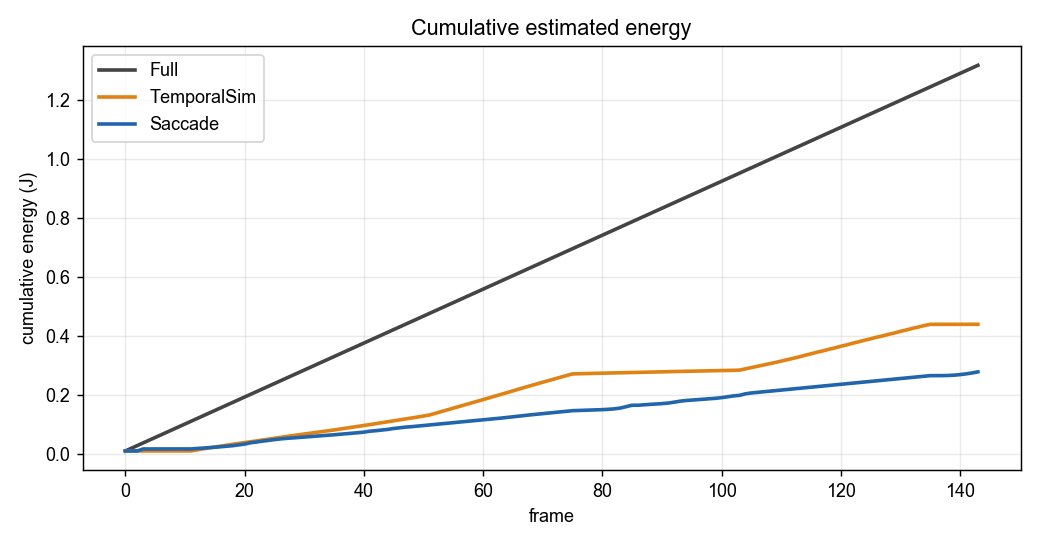
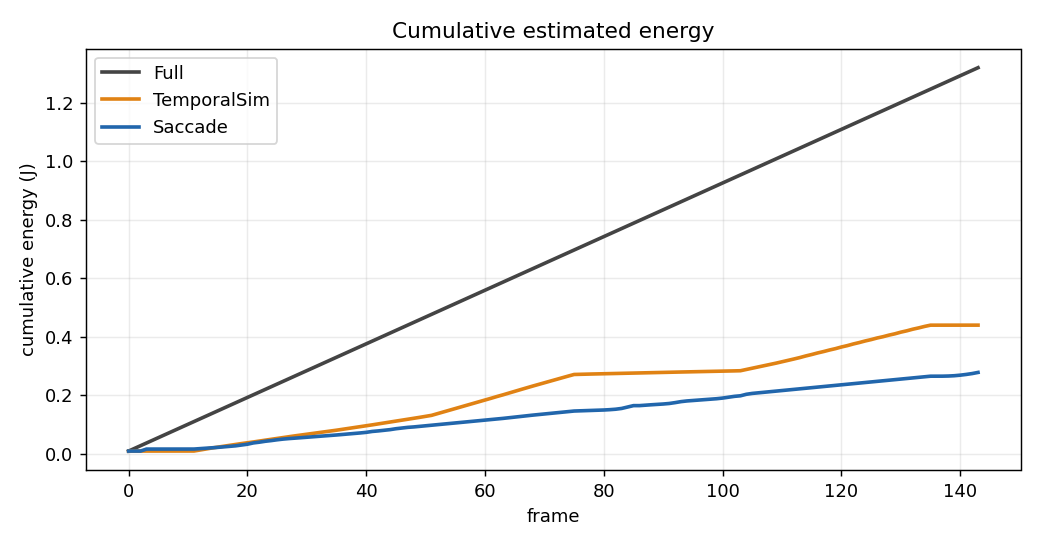
Translate all GitHub-facing text to English
- Rewrite README.md entirely in English (claims, architecture, benchmark
  tables, DINOv2 results, caveats); docstring claim tags keep their
  Japanese labels, glossed once in the README
- Regenerate the centerpiece figure with an English-only title and drop
  the now-unneeded CJK font registration from benchmarks/run.py
- Repo description switched to English

diff --git a/benchmarks/run.py b/benchmarks/run.py
@@ -30,25 +30,6 @@ sys.path.insert(0, os.path.dirname(os.path.dirname(os.path.abspath(__file__))))
 import matplotlib
 matplotlib.use("Agg")
 import matplotlib.pyplot as plt  # noqa: E402
-from matplotlib import font_manager  # noqa: E402
-
-
-def _setup_cjk_font():
-    """Register a CJK-capable font so Japanese figure titles render (not tofu boxes)."""
-    for p in ["/Library/Fonts/Arial Unicode.ttf",
-              "/System/Library/Fonts/Supplemental/Arial Unicode.ttf",
-              "/System/Library/Fonts/Hiragino Sans GB.ttc",
-              "/System/Library/Fonts/AppleSDGothicNeo.ttc"]:
-        if os.path.exists(p):
-            try:
-                font_manager.fontManager.addfont(p)
-                name = font_manager.FontProperties(fname=p).get_name()
-                plt.rcParams["font.family"] = [name, "DejaVu Sans"]
-                plt.rcParams["axes.unicode_minus"] = False
-                return name
-            except Exception:
-                continue
-    return None
 
 from saccade import (EngineConfig, SaccadeEngine, SyntheticBackbone, make_backbone,  # noqa: E402
                      summarize, synthetic_walking_stream, frames_from_video,
@@ -188,8 +169,7 @@ def fig_why_temporalsim_fails(frames, labels, img_size, path):
     axs[1, 1].set_title(f"Saccade signal: MOTION-COMPENSATED residual\n→ re-encode {c_enc:.0f}% of patches")
     axs[1, 1].axis("off")
     fig.colorbar(im2, ax=axs[1, :], fraction=0.046, pad=0.04, label="per-patch residual")
-    fig.suptitle("なぜ temporal-similarity は定常運動を間引けないか  /  Why temporal-similarity can't skip steady motion",
-                 fontsize=13)
+    fig.suptitle("Why temporal-similarity can't skip steady ego-motion", fontsize=13)
     fig.savefig(path, dpi=130, bbox_inches="tight"); plt.close(fig)
     return b_enc, c_enc
 
@@ -255,8 +235,6 @@ def main():
     args = ap.parse_args()
 
     os.makedirs(FIGDIR, exist_ok=True)
-    font = _setup_cjk_font()
-    print(f"[font] CJK font: {font or 'not found (Japanese titles may not render)'}")
     print(f"[stream] source={args.source}")
     frames, labels = build_stream(args.source, args.img_size, args.frames)
     print(f"[stream] {len(frames)} frames")

diff --git a/README.md b/README.md
@@ -5,196 +5,192 @@
 [![python](https://img.shields.io/badge/python-3.10%2B-blue.svg)](pyproject.toml)
 [![release](https://img.shields.io/github/v/release/NagaYu/saccade)](https://github.com/NagaYu/saccade/releases)
 
-**予測誤差ゲート＋エネルギー予算制御による、常時オンのエッジVLM.**
+**An always-on edge VLM driven by prediction-error gating and an energy budget.**
 *Predict what the next frame will look like; spend compute only where you were wrong; never exceed your energy budget.*
 
-Saccade は、頭が動いても世界の見えは滑らかに予測できる — という生物の視覚（サッカード間の予測）にならい、
-**「予測できたパッチは再エンコードしない」** ことでエッジ常時稼働VLMの消費電力を削ります。
-鍵は *自己運動 (ego-motion) の補償*：カメラが動くと画素はほぼ全て変化するが、**動きを差し引けば静止世界の残差はほぼゼロ**。
-既存の「フレーム類似度で間引く」手法が定常運動を全く間引けないのに対し、Saccade は大きく間引けます。
+Saccade borrows a trick from biological vision — the world stays smoothly predictable while your head moves — and cuts the power draw of an always-on edge VLM by **never re-encoding a patch it could predict**. The key is *ego-motion compensation*: when the camera moves, almost every pixel changes, but **subtract the motion and the residual of a static world is nearly zero**. Existing "frame-similarity" skipping cannot skip steady motion at all; Saccade skips most of it.
 
 ---
 
-## TL;DR（合成歩行ストリーム, CPU, ViT-S/16 相当）
+## TL;DR (synthetic walking stream, CPU, ViT-S/16-class encoder)
 
-| 手法 | 再エンコード% | 品質 (fidelity vs Full) | 推定エネルギー(J) | 平均電力 | **10kJでの連続稼働** |
+| Method | Patches re-encoded | Fidelity vs Full | Estimated energy (J) | Mean power | **Runtime on 10 kJ** |
 |---|---|---|---|---|---|
-| **(A) Full**（毎フレーム全エンコード） | 100.0 | 1.000 | 1.264 | 91.6 mW | 30.3 h |
-| **(B) TemporalSim**（同位置フレーム差分で間引く） | 33.9 | 0.972 | 0.430 | 31.2 mW | 89.1 h |
-| **(C) Saccade**（予測誤差ゲート＋IMU補償＋予算制御） | **20.6** | **0.971** | **0.262** | **19.0 mW** | **146.4 h** |
+| **(A) Full** (encode everything, every frame) | 100.0% | 1.000 | 1.264 | 91.6 mW | 30.3 h |
+| **(B) TemporalSim** (same-position frame-diff skipping) | 33.9% | 0.972 | 0.430 | 31.2 mW | 89.1 h |
+| **(C) Saccade** (prediction-error gate + IMU compensation + budget control) | **20.6%** | **0.971** | **0.262** | **19.0 mW** | **146.4 h** |
 
-- **省エネ**: Full 比 **4.8×**、TemporalSim 比 **1.65×** 少ない計算で、
-- **品質保持**: 品質は TemporalSim と同等（Full に対する fidelity 0.971 ≈ 0.972）、
-- **予算保証**: 予算制御ON時の予算超過は **0 件**（0.05 W〜0.0001 W の全設定で厳密不変条件を満たす）。
+- **Energy saving**: 4.8× less compute than Full and 1.65× less than TemporalSim,
+- **Quality preservation**: quality on par with TemporalSim (fidelity vs Full: 0.971 ≈ 0.972),
+- **Budget guarantee**: zero budget violations with the controller on (the strict invariant holds for every budget from 0.05 W down to 0.0001 W).
 
-> 数値は `benchmarks/results.json` に保存。エネルギーは解析的FLOPモデル×`1 pJ/FLOP`（効率的なモバイル推論の目安、`--j-per-flop` で変更可）。
+> Numbers are stored in `benchmarks/results.json`. Energy comes from an analytic FLOP model × `1 pJ/FLOP` (a reasonable figure for efficient mobile inference; change it with `--j-per-flop`).
 
 ---
 
-## 目玉の図：なぜ temporal-similarity は定常運動を間引けないか
+## The centerpiece figure: why temporal similarity can't skip steady motion
 
 ![why temporal-similarity fails](figures/why_temporalsim_fails.png)
 
-歩行区間の連続2フレーム。カメラがパンしただけで**世界は静止**しているのに、
-- **左下 (B の判定信号)**：*同位置*の残差はほぼ全面で高い → **36% を再エンコード**。
-- **右下 (C の判定信号)**：*自己運動補償後*の残差はほぼゼロ → **0% を再エンコード**。
+Two consecutive frames from the walking segment. The camera has merely panned — **the world is static** — yet:
+- **Bottom-left (B's decision signal)**: the *same-position* residual is high almost everywhere → **re-encode 36% of patches**.
+- **Bottom-right (C's decision signal)**: the *motion-compensated* residual is near zero → **re-encode 0% of patches**.
 
-これが Saccade の核心です。「変わったか？」ではなく「**動きで説明できない変化があったか？**」を問う。
+This is the heart of Saccade: don't ask "did the pixels change?" — ask "**did anything change that motion cannot explain?**"
 
-### フレーム毎の負荷（目玉）
+### Per-frame encoder workload
 ![encoded fraction over time](figures/encoded_fraction.png)
 
-`walk`/`turn`（予測可能な自己運動）区間で **B は 42–64% を再エンコードし続ける** のに対し、**C は ~14% に間引ける**。
-`static`（静止）と `event`（独立に動く物体＝真の変化）区間では両者ほぼ同じ — つまり C は**真の変化はきちんと拾う**（ずるをしていない）。
+During `walk`/`turn` (predictable ego-motion) segments, **B is stuck re-encoding 42–64%** while **C thins the load to ~14%**. On `static` (no motion) and `event` (an independently moving object = genuine change) segments the two behave almost identically — i.e. C **still catches real change** (no cheating).
 
-### 品質 / エネルギーのトレードオフ
+### Quality / energy trade-off
 ![quality vs energy](figures/quality_energy.png)
 
-Saccade は予算Bを変えるだけで Pareto 前線を掃引でき、TemporalSim の単一動作点を**支配**します（同品質でより低エネルギー、または同エネルギーでより高品質）。
+Just by varying the budget B, Saccade sweeps a Pareto frontier that **dominates** TemporalSim's single operating point (same quality at lower energy, or higher quality at the same energy).
 
-### webcam風デモ（B vs C, 赤=そのフレームで再エンコードしたパッチ）
+### Webcam-style demo (B vs C; red = patches re-encoded this frame)
 ![demo](figures/saccade_demo.gif)
 
 ---
 
-## アーキテクチャ
+## Architecture
 
 ```mermaid
 flowchart TB
   F["frame<br/>(webcam / mp4 / synthetic)"] --> G[grayscale]
-  G --> OF["optical flow<br/><b>疑似IMU</b> (motion.py)"]
-  CACHE[("PatchEmbeddingCache<br/>前フレームのトークン")]
+  G --> OF["optical flow<br/><b>pseudo-IMU</b> (motion.py)"]
+  CACHE[("PatchEmbeddingCache<br/>previous-frame tokens")]
 
-  OF -- "per-patch 変位" --> KV["<b>kv_remap.py</b><br/>自己運動でキャッシュを空間リマップ"]
+  OF -- "per-patch displacement" --> KV["<b>kv_remap.py</b><br/>remap cached tokens along ego-motion"]
   CACHE --> KV
-  KV -- "warped cache" --> PRED["<b>predictor.py</b><br/>GRUが次フレーム埋め込みを予測"]
-  OF -- "ego-motion 特徴" --> PRED
+  KV -- "warped cache" --> PRED["<b>predictor.py</b><br/>GRU predicts next-frame embeddings"]
+  OF -- "ego-motion features" --> PRED
 
-  OF -- "動き補償残差(安価)" --> GATE["<b>gate.py</b><br/>surprisal ゲート τ + task-aware"]
-  IMP["importance<br/>attention×error"] --> GATE
-  GATE -- "encode 候補集合" --> CAP{"<b>energy_controller.py</b><br/>予算でencode数を上限"}
-  BUD["token-bucket 予算<br/>B [J/s]"] --> CAP
+  OF -- "motion-compensated residual (cheap)" --> GATE["<b>gate.py</b><br/>surprisal gate τ + task-aware"]
+  IMP["importance<br/>attention × error"] --> GATE
+  GATE -- "candidate encode set" --> CAP{"<b>energy_controller.py</b><br/>budget caps the encode count"}
+  BUD["token-bucket budget<br/>B [J/s]"] --> CAP
 
-  CAP -- "surprising patches のみ" --> ENC["ViT patch encoder<br/>(backbone.py)"]
+  CAP -- "surprising patches only" --> ENC["ViT patch encoder<br/>(backbone.py)"]
   ENC -- "fresh tokens" --> MIX["splice:<br/>fresh + predicted"]
   PRED -- "predicted tokens" --> MIX
   MIX --> OUT["reconstructed<br/>patch-token map → LLM"]
-  MIX -- "observed patches で自己教師学習" --> PRED
+  MIX -- "self-supervised update on observed patches" --> PRED
   MIX --> CACHE
-  ENC -. "encodeしたFLOPs" .-> BUD
+  ENC -. "FLOPs actually spent" .-> BUD
 
   classDef core fill:#e8f0fe,stroke:#2166ac,stroke-width:2px;
   class KV,PRED,GATE,CAP core;
 ```
 
-*4つのコア（青）*：`predictor`（前方予測）・`gate`（surprisal ゲート）・`kv_remap`（動き補償再利用）・`energy_controller`（予算制御）。
-`engine.py` がこれらを毎フレーム統合し、`full` / `temporalsim` / `saccade` の3条件を**同一エンジン**で生成します（公平比較のため差分は機構のみ）。
+*The four cores (blue)*: `predictor` (forward prediction), `gate` (surprisal gating), `kv_remap` (motion-compensated reuse), `energy_controller` (budget control).
+`engine.py` integrates them every frame and produces all three conditions — `full` / `temporalsim` / `saccade` — from **one engine**, so the comparison differs only in the mechanism under test.
 
 ---
 
-## 主張 → コードの対応（各関数 docstring に「どの主張を実証するか」を明記）
+## Claims → code (every function's docstring states which claim it demonstrates)
 
-| 主張 | 実証する場所 |
+Docstrings tag claims with their Japanese research labels: 省エネ = energy saving, 品質保持 = quality preservation, 予算保証 = budget guarantee.
+
+| Claim | Where it is demonstrated |
 |---|---|
-| **省エネ** (energy saving) | `gate.py`（surprising な少数だけ encode）, `kv_remap.py`（動き補償で再計算削減）, `flops.py`（FLOP→J は encode 数に単調） |
-| **品質保持** (quality preservation) | `predictor.py`（未encodeパッチの値を予測）, `engine.py` の fidelity（再構成 vs Full のコサイン類似）, gate の task-aware/forced |
-| **予算保証** (budget guarantee) | `energy_controller.py`（token bucket で `cum_J ≤ B·t + E0` を構成的に保証, 枯渇時は frame-drop で anytime 劣化出力） |
+| **Energy saving** | `gate.py` (encode only the surprising few), `kv_remap.py` (motion compensation cuts recomputation), `flops.py` (FLOP→J is monotone in encode count) |
+| **Quality preservation** | `predictor.py` (predicts values for un-encoded patches), fidelity in `engine.py` (cosine of reconstruction vs Full), the gate's task-aware/forced paths |
+| **Budget guarantee** | `energy_controller.py` (token bucket enforces `cum_J ≤ B·t + E0` by construction; on starvation, frame-drop yields an anytime degraded output) |
 
 ---
 
-## 4つのコア（詳細）
+## The four cores in detail
 
-1. **PatchEmbeddingCache ＋ 前方予測器** — `predictor.py`, `engine.py`
-   各パッチ埋め込みをキャッシュ。極小GRU（重み全パッチ共有）が
-   *動き補償済みキャッシュ ＋ 疑似IMU* から次フレーム各パッチ埋め込みを予測。
-   **完全自己教師あり**：実際に encode した（＝gateが通した）パッチの真値で `||pred−true||` をオンライン学習。ラベル不要。
-   予測は「warpedキャッシュ上の残差」を出すので、初期は恒等（残差0）から学習が進む。
+1. **PatchEmbeddingCache + forward predictor** — `predictor.py`, `engine.py`
+   Every patch embedding is cached. A tiny GRU (weights shared across patches) predicts each patch's next-frame embedding from the *motion-compensated cache + pseudo-IMU*.
+   **Fully self-supervised**: it trains online on `||pred − true||` using the true embeddings of patches the gate chose to encode anyway. No labels.
+   The prediction is a *residual on top of the warped cache*, so learning starts from identity (residual 0) and only has to model what ego-motion cannot explain.
 
-2. **Surprisal ゲート** — `gate.py`
-   パッチ毎に *動き補償後の見えの残差*（画素空間の安価な proxy）を閾値 τ で判定し、超えたパッチだけ再エンコード、他はキャッシュKVを再利用。
-   *タスク認識版*：`importance = EMA(直近の埋め込みsurprisal)`（LLM注意が無いCPU設定での「注意×誤差」代替）で `τ_eff = τ/(1+λ·w)` とし、重要パッチの閾値を下げる。
-   （鶏卵問題：真の埋め込みsurprisalは encode 後にしか分からないため、判定は安価な proxy、学習・importance更新は encode 済みパッチの真値で行う — docstring 参照。）
+2. **Surprisal gate** — `gate.py`
+   Per patch, threshold the *motion-compensated appearance residual* (a cheap pixel-space proxy) at τ; re-encode only patches above it, reuse cached KV for the rest.
+   *Task-aware variant*: `importance = EMA(recent embedding surprisal)` (a stand-in for "attention × error" in this CPU setting without LLM attention) corrects the threshold as `τ_eff = τ/(1+λ·w)`, lowering the bar for important patches.
+   (Chicken-and-egg: true embedding surprisal is only known *after* encoding, so decisions use the cheap proxy while learning/importance updates use the true values of encoded patches — see the docstrings.)
 
-3. **モーション補償KV再利用** — `kv_remap.py`
-   疑似IMU変位でキャッシュ済みトークンを新しい空間位置へ双線形リマップしてから再利用（位置ずれによる無駄な再計算を回避）。フレーム端の新出領域は invalid として強制 encode。
-   **効果（実測）**：動き補償ONで総再計算パッチ数が **~3.3×** 減。
+3. **Motion-compensated KV reuse** — `kv_remap.py`
+   Bilinearly remap cached tokens to their new spatial positions along the pseudo-IMU displacement *before* reuse (avoiding wasted recomputation from positional misalignment). Newly revealed patches at the frame edge are invalid and force-encoded.
+   **Measured effect**: motion compensation cuts total recomputed patches by **~3.3×**.
 
-4. **エネルギー予算コントローラ** — `energy_controller.py`
-   簡易エネルギーモデル `J = (encoder+prefill FLOPs) × [J/FLOP]`。予算 `B [J/s]` に対し
-   **(1) ソフトループ**：比例制御で τ を調整し平均電力を B に追従（予算いっぱいまで使い切り効用最大化）。
-   **(2) ハードキャップ**：token bucket（容量 `E0 = reserve·B`, 毎フレーム `B/fps` 補充）が
-   `任意の t で 累積エネルギー ≤ B·t + E0` を**構成的に保証**。bucket が枯れたフレームは丸ごと drop し、
-   直前キャッシュを **anytime の劣化出力** として返す（必ず有効出力）。
+4. **Energy budget controller** — `energy_controller.py`
+   Simple energy model: `J = (encoder + LLM-prefill FLOPs) × [J/FLOP]`. Given a budget `B [J/s]`:
+   **(1) soft loop** — proportional control adapts τ so average power tracks B (spend the budget you have; maximize utility);
+   **(2) hard cap** — a token bucket (capacity `E0 = reserve·B`, refill `B/fps` per frame) enforces
+   `cumulative energy ≤ B·t + E0` for all t **by construction**. When the bucket runs dry the frame is dropped entirely and the previous cache is returned as an **anytime degraded output** (there is always a valid output).
 
 ---
 
-## クイックスタート
+## Quick start
 
 ```bash
 pip install -r requirements.txt
 
-# ベンチ（合成歩行ストリーム, 図とGIFとresults.jsonを生成）
+# benchmark (synthetic walking stream; writes figures, the GIF, and results.json)
 python benchmarks/run.py
 
-# 予算を変える / fpsを変える
+# change the budget / fps
 python benchmarks/run.py --budget 0.01 --fps 15
 
-# 実webcam or mp4 で
+# run on a real webcam or an mp4
 python benchmarks/run.py --source webcam
 python benchmarks/run.py --source path/to/walk.mp4
 
-# 実ViT/DINOv2 のパッチトークンで（要 transformers）
+# run on real ViT/DINOv2 patch tokens (requires transformers)
 python benchmarks/run.py --backbone hf:facebook/dinov2-small
 
-# テスト（予測ゲートON時の品質・予算超過なし・動き補償で再計算減 を検証）
+# tests (gate-on quality, zero budget violations, motion comp reduces recompute)
 pytest -q
 ```
 
-### 小型VLMのラッパー
-`saccade/backbone.py` は ViT系ビジョンエンコーダの**パッチ埋め込み**に介入する薄いラッパーを提供します：
+### The small-VLM wrapper
+`saccade/backbone.py` provides a thin wrapper that intervenes at the **patch embeddings** of a ViT-class vision encoder:
 
-- `SyntheticBackbone` — 依存なし・決定的・**部分パッチ encode が本当に可能**（frozen random ViT-S/16 相当）。テストと再現ベンチの既定。
-- `HFVisionBackbone` — 実 HuggingFace ViT/DINOv2（`facebook/dinov2-small` 等）のパッチトークンを露出。self-attentionのため部分encodeは*会計上*の近似（token-caching近似, `flops.py` 参照）。
-  **検証済み**：`facebook/dinov2-small`（grid 16×16, D=384）で全パイプラインが動作（44フレーム短尺ストリーム、実測値: [benchmarks/results_dinov2.json](benchmarks/results_dinov2.json)）。実DINOv2特徴でも予算スイープが品質/エネルギーの Pareto を掃引し、TemporalSim の動作点（0.130 J, fidelity 0.834）に対し **Saccade@0.05 W は 0.149 J で fidelity 0.900**（同エネルギー帯で +0.066）、@0.1 W は 0.303 J / 0.971（Full 0.464 J 比 35% 減で品質 97%）。予算違反は全設定で 0。
-  注意点も実測どおり記す：実特徴は self-attention で文脈が混ざるため、キャッシュ再利用の誤差が合成encoderより大きく、**低予算側の品質劣化は速い**（0.065 J → fidelity 0.719）。意味的特徴での低予算運用は今後の改善対象。
-  moondream2 / SmolVLM 等のVLMビジョンタワーも同API（パッチトークン露出）で差し替え可能な設計。
+- `SyntheticBackbone` — dependency-free, deterministic, and **genuinely capable of encoding a subset of patches** (a frozen-random ViT-S/16 stand-in). Default for tests and the reproducible benchmark.
+- `HFVisionBackbone` — exposes the patch tokens of a real HuggingFace ViT/DINOv2 (e.g. `facebook/dinov2-small`). Because of self-attention, subset encoding is an *accounting* approximation (token-caching; see `flops.py`).
+  **Verified**: the full pipeline runs end-to-end on `facebook/dinov2-small` (grid 16×16, D=384; 44-frame short stream; measurements in [benchmarks/results_dinov2.json](benchmarks/results_dinov2.json)). On real DINOv2 features the budget sweep still traces a quality/energy Pareto: against TemporalSim's operating point (0.130 J, fidelity 0.834), **Saccade@0.05 W reaches fidelity 0.900 at 0.149 J** (+0.066 in the same energy band), and @0.1 W reaches 0.971 at 0.303 J (35% less energy than Full's 0.464 J at 97% quality). Zero budget violations in every setting.
+  Honest caveat, also measured: real features mix context through self-attention, so cache-reuse error is larger than with the synthetic encoder and **low-budget quality degrades faster** (0.065 J → fidelity 0.719). Low-budget operation on semantic features is future work.
+  Vision towers of VLMs such as moondream2 / SmolVLM can be swapped in through the same API (patch-token exposure).
 
-> **なぜ既定が合成？** アルゴリズム（予測ゲート/動き補償/予算制御）はバックボーン非依存です。合成encoderは各パッチが独立関数なので**部分encodeが実計算削減として実現**し、省エネ主張が近似なしで測れます。実ViTでは同じ機構が実特徴の上で動く様子を確認できます（品質保持の確認向き）。
+> **Why is the default synthetic?** The algorithms (predictive gating / motion compensation / budget control) are backbone-agnostic. With the synthetic encoder each patch is an independent function of its pixels, so **subset encoding realizes the savings as real computation** — the energy claim is measured without approximation. The real-ViT path shows the same machinery running on genuine semantics (best for checking quality preservation).
 
 ---
 
-## リポジトリ構成
+## Repository layout
 
 ```
 saccade/
-  backbone.py          # ViTパッチ埋め込みラッパー（synthetic / HF）
-  motion.py            # 光学フロー = 疑似IMU（per-patch変位 + ego-motion特徴）
-  predictor.py         # 前方予測器（共有重みGRU, オンライン自己教師あり）
-  kv_remap.py          # 動き補償によるキャッシュ空間リマップ
-  gate.py              # surprisal ゲート（proxy判定 + task-aware + importance）
-  energy_controller.py # token-bucket 予算制御（比例τ + anytime frame-drop）
-  engine.py            # 4コアを統合する常時オンループ + full/temporalsim/saccade
-  flops.py             # 解析的FLOP/エネルギーモデル
-  stream.py            # フレーム源（合成歩行 / webcam / mp4）
+  backbone.py          # ViT patch-embedding wrapper (synthetic / HF)
+  motion.py            # optical flow = pseudo-IMU (per-patch displacement + ego-motion features)
+  predictor.py         # forward predictor (shared-weight GRU, online self-supervised)
+  kv_remap.py          # motion-compensated spatial remap of the cache
+  gate.py              # surprisal gate (proxy decision + task-aware + importance)
+  energy_controller.py # token-bucket budget control (proportional τ + anytime frame-drop)
+  engine.py            # the always-on loop integrating the four cores + full/temporalsim/saccade
+  flops.py             # analytic FLOP/energy model
+  stream.py            # frame sources (synthetic walking / webcam / mp4)
   types.py             # EngineConfig / FrameResult / RunSummary
 benchmarks/
-  run.py               # A/B/C比較・図・GIF・results.json
-  results.json         # 最新の測定値
-figures/               # 生成物（PNG + demo GIF）
-tests/                 # pytest（省エネ/品質保持/予算保証 を検証）
+  run.py               # A/B/C comparison, figures, GIF, results.json
+  results.json         # latest measurements
+figures/               # generated artifacts (PNGs + demo GIF)
+tests/                 # pytest (verifies energy saving / quality preservation / budget guarantee)
 ```
 
 ---
 
-## 設計上の正直な注記 (honest caveats)
+## Honest caveats
 
-- **エネルギーは解析モデル**：実測 J ではなく `FLOPs × [J/FLOP]` の推定。相対比較（A/B/C）と予算保証の論理は正しく、絶対値は係数依存。`--j-per-flop` で係数変更可。
-- **token-caching 近似**：実ViTでは各パッチトークンが自己注意で混ざるため、部分encodeの節約は「そのトークンだけ再計算し他はキャッシュ再利用」という近似で会計。実HWでの実現には block-sparse attention が要る（本プロトタイプは*判定品質*と*モデル化エネルギー*を測る）。合成バックボーンは節約を実計算として実現。
-- **合成ストリーム**：既定入力は決定的な合成「歩行」映像（明示的にラベル）。定常運動regimeを制御して再現可能に評価するため。実webcam/mp4も同一パイプラインで動作。
-- **サーバ側長尺QAに非依存**：V-Rex/StreamingTOM 系の長尺動画QAには依存・模倣していません。エッジ常時オン設定に集中。
-- **量子化/NPUは後回し**：まずCPU＋小型モデルで正しく動くことを最優先（本README/テストは全てCPUで再現）。
+- **Energy is an analytic model**: estimated as `FLOPs × [J/FLOP]`, not measured Joules. The relative comparison (A/B/C) and the budget-guarantee logic are sound; absolute values depend on the coefficient (`--j-per-flop`).
+- **Token-caching approximation**: in a real ViT, self-attention mixes patch tokens, so subset-encode savings are accounted as "recompute only that token, reuse cached KV for the rest". Realizing this on hardware needs block-sparse attention (this prototype measures *decision quality* and *modelled energy*). The synthetic backbone realizes the savings as real computation.
+- **Synthetic stream**: the default input is a deterministic synthetic "walking" video (explicitly labelled as such), chosen to evaluate the steady-motion regime reproducibly. Real webcam/mp4 inputs run through the identical pipeline.
+- **No reliance on server-side long-video QA**: nothing here depends on or imitates V-Rex / StreamingTOM-style long-form video QA. The focus is the always-on edge setting.
+- **Quantization/NPU deferred**: correctness on CPU with small models comes first (everything in this README and the tests reproduces on CPU).
 
 ---
 
-## ライセンス
-MIT — [LICENSE](LICENSE) 参照。研究プロトタイプです。
+## License
+MIT — see [LICENSE](LICENSE). Research prototype.
